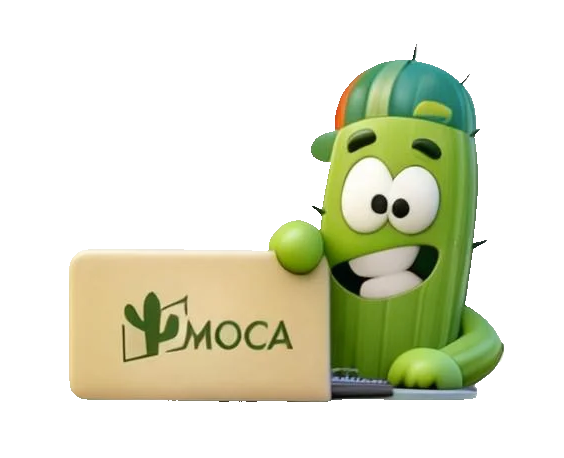
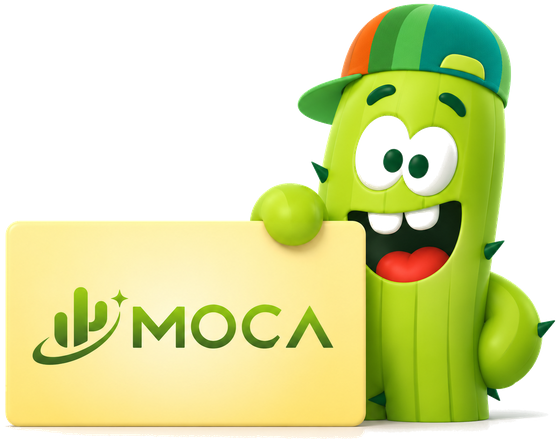
Swap Join Brands IP to the new MOCA sign mascot.
Crop the asset flush to the card bottom, nudge placement, and harden the local auto-start so Cursor reopen keeps 4321 up.

diff --git a/src/styles/home.css b/src/styles/home.css
@@ -2310,8 +2310,8 @@
 
 .join-card--brand img {
   position: absolute;
-  right: -10px;
-  bottom: -14px;
+  right: 9px;
+  bottom: -5px;
   z-index: 0;
   width: 152px;
   height: auto;
